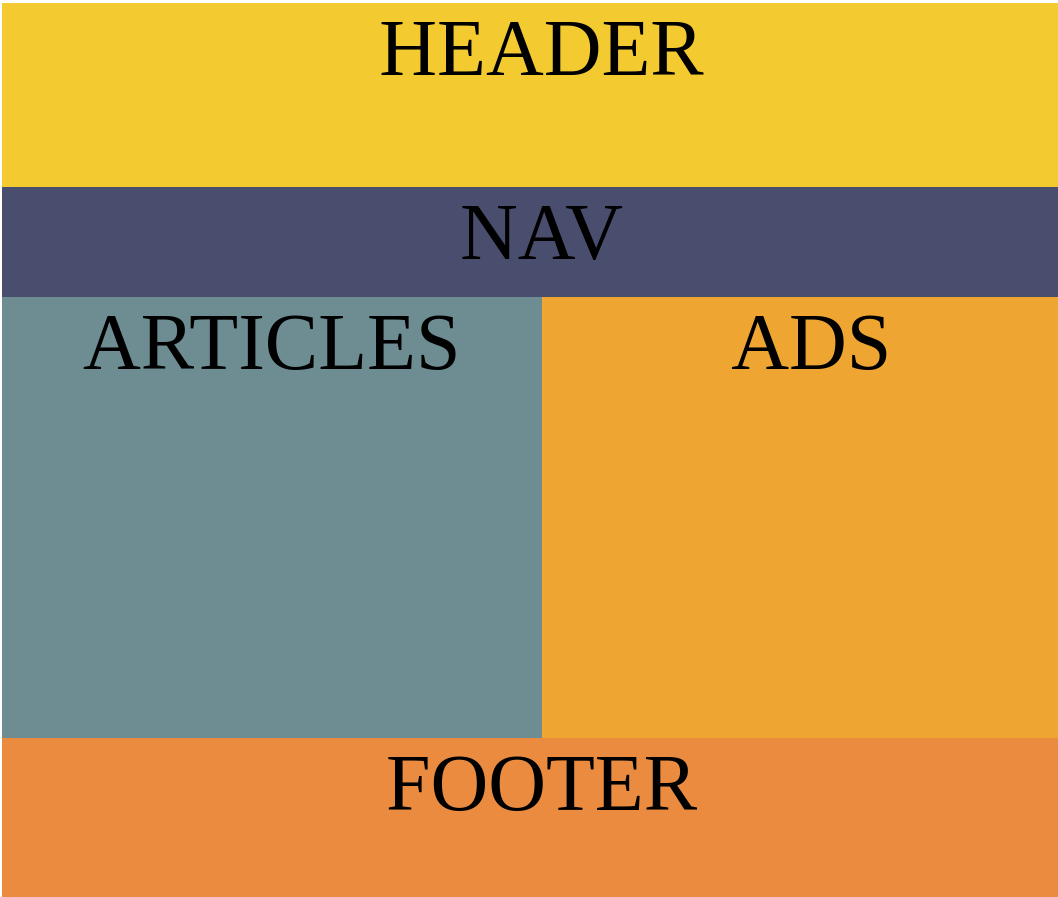
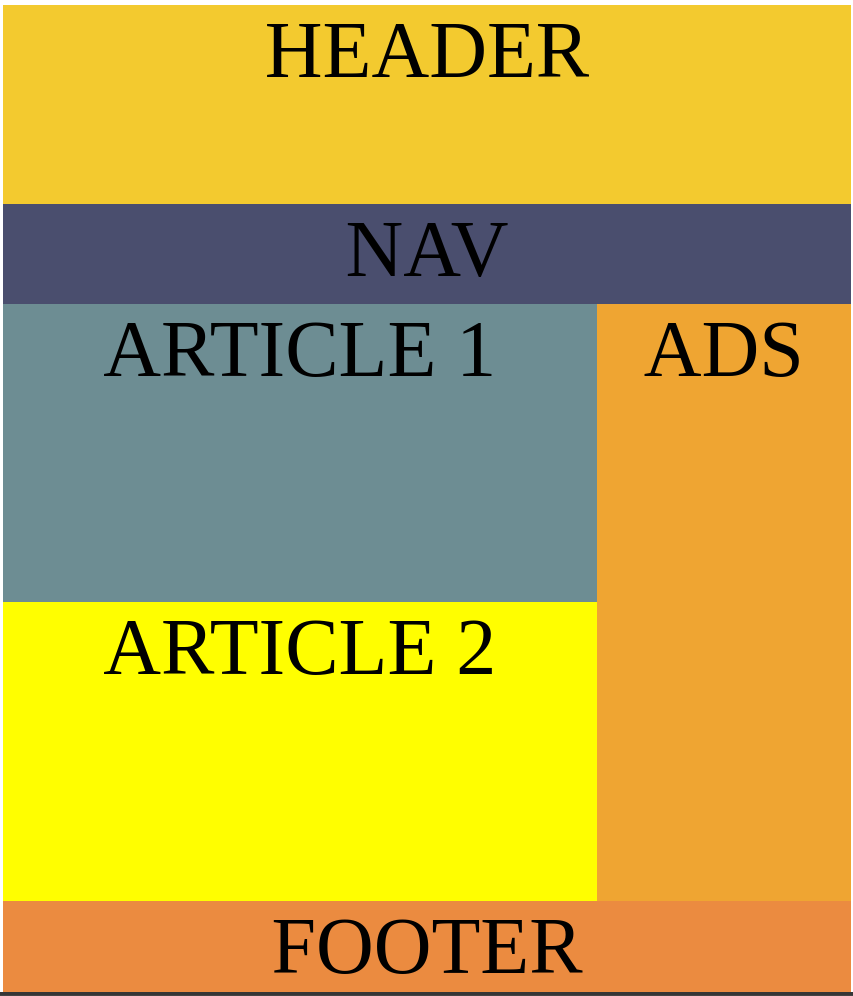
Finishes tablet solution and adds solution image.

diff --git a/style.css b/style.css
@@ -61,3 +61,17 @@
     ;
   }
 }
+
+@media (min-width: 501px) and (max-width: 1100px) {
+  #app {
+    grid-template-rows: 20% 10% 30% 30% 10%;
+    grid-template-columns: 70% 30%;
+    grid-template-areas: 
+      "hdr hdr"
+      "nav nav"
+      "ar1 ads"
+      "ar2 ads"
+      "ftr ftr"
+    ;
+  }
+}
